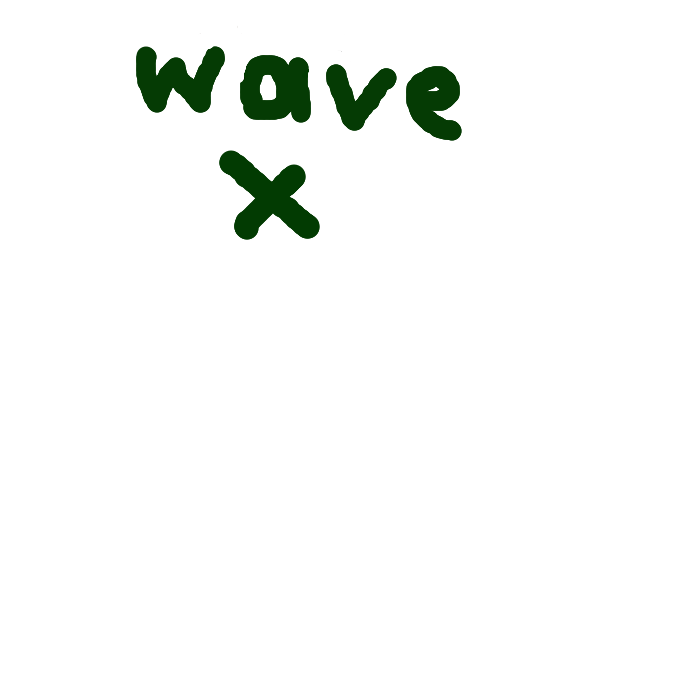
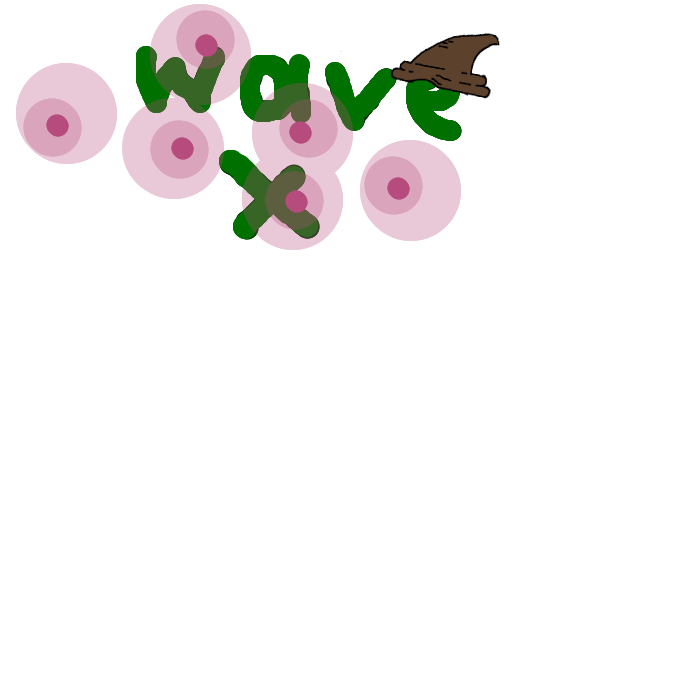
witch v1

Changed region(s): [[0.0, 0.0, 0.72, 0.36]]

diff --git a/lib/monsters/witch.py b/lib/monsters/witch.py
@@ -1,0 +1,45 @@
+from threading import Thread
+from random import randint
+
+from . import DefaultMonster
+from . import set_hitbox_monster
+
+class   Witch(DefaultMonster):
+    name = "witch"
+    lives = 30
+    id_nb = 17
+
+    @classmethod
+    def build_class(cls):
+        cls.img = cls.tools.set_imgs(cls.env.img_folder + 'monsters/', cls.name, cls.dimensions)
+        cls.img_injured = cls.tools.set_imgs(cls.env.img_folder + 'monsters/', cls.name + '_injured', cls.dimensions)
+        cls.img_dead = cls.tools.set_imgs(cls.env.img_folder + 'monsters/', cls.name + '_dead', cls.dimensions)
+        cls.img_possessed = cls.tools.set_imgs(cls.env.img_folder + 'monsters/', cls.name + '_possessed', cls.dimensions)
+        cls.bullet  = cls.env.mod.bullets.DoubleBullet.build_class(cls.env)
+        return cls
+
+    def __init__(self, env, x, y):
+        self._father_init(x, y)
+        self.hitbox = set_hitbox_monster(env, self)
+
+        self.rapidity = randint(6, 10)
+
+        self.walking_dead = False
+
+    def display(self, env):
+        fitting = 0.23 * self.dimensions if self.direction % 2 else 0
+        if not self.lives:
+            if self.env.walking_dead:
+                img = self.img_possessed[self.direction]
+            else:
+                img = self.img_dead[self.direction]
+        elif self.injured:
+            img = self.img_injured[self.direction]
+        else:
+            img = self.img[self.direction]
+        self.tools.display(self.env, img, self.x, self.y, fitting)
+        if self.lives and self.invulnerable:
+            self.tools.display(self.env, self.img_invulnerable[self.direction], self.x, self.y, fitting)
+        elif self.lives and self.inflamed:
+            self.tools.display(self.env, self.img_inflamed[self.direction], self.x, self.y, fitting)
+        self._debug()

diff --git a/lib/waves/configuration.py b/lib/waves/configuration.py
@@ -300,10 +300,10 @@ class   Wave9(DefaultWave):
 class   Wave10(DefaultWave):
     def __init__(self, env):
         self.title = env.mod.tools.load_img(env, 'waves/wave_10', env.height, env.height)
-        self.objective = 16
-        self.times = [0, 0, 0, 1180, 235, 1320, 102, 233, 82, 188]
-        self.nb = [0, 0, 0, 1, 2, 1, 2, 1, 1, 1]
-        self.next = [0, 0, 0, self.random(3), self.random(4), self.random(5), self.random(6) // 2, self.random(7) // 2, 0, self.random(9) // 2]
+        self.objective = 28
+        self.times = [144, 187, 212, 1280, 166, 1520, 144, 401, 199]
+        self.nb = [3, 1, 1, 1, 2, 1, 1, 1, 3]
+        self.next = [0, self.random(1), self.random(2), self.random(3), self.random(4), self.random(5) // 2, self.random(6), self.random(7), 0]
         self.add = AdditionalSpawn((0, 2, 833))
 
     def process(self, env):
@@ -324,9 +324,9 @@ class   Wave11(DefaultWave):
     def __init__(self, env):
         self.title = env.mod.tools.load_img(env, 'waves/wave_11', env.height, env.height)
         self.objective = 18
-        self.times = [144, 187, 212, 1280, 166, 1520, 144, 401, 1, 299]
-        self.nb = [3, 1, 1, 1, 2, 1, 1, 1, 1, 2]
-        self.next = [0, self.random(1), self.random(2), self.random(3), self.random(4), self.random(5) // 2, self.random(6), self.random(7), -1, 0]
+        self.times = [144, 187, 212, 1280, 166, 1520, 144, 401, 222, 299]
+        self.nb = [2, 1, 1, 1, 2, 1, 1, 1, 2, 2]
+        self.next = [0, self.random(1), self.random(2), self.random(3), self.random(4), self.random(5) // 2, self.random(6), self.random(7), 0, 0]
         self.add = AdditionalSpawn((0, 2, 833))
 
     def process(self, env):

diff --git a/lib/players/score.py b/lib/players/score.py
@@ -12,9 +12,9 @@ class   Score:
         self.half = player.half
         self.tools = player.tools
         self.img_total = player.img[0]
-        self.list = ['zombie', 'cyclops', 'jack_lantern', 'daemon', 'minion', 'necromancer', 'harpy', 'ent', 'nyx', 'tentacle', 'piranha', 'kraken', 'dark_knight', 'villager', 'garou', 'alchemist', 'fly', 'devourer', 'devourer', 'graeae']
+        self.list = ['zombie', 'cyclops', 'jack_lantern', 'daemon', 'minion', 'necromancer', 'harpy', 'ent', 'nyx', 'tentacle', 'piranha', 'kraken', 'dark_knight', 'villager', 'garou', 'alchemist', 'fly', 'witch', 'devourer', 'graeae']
         self.kills = [0, 0, 0, 0, 0, 0, 0, 0, 0, 0, 0, 0, 0, 0, 0, 0, 0, 0, 0, 0]
-        self.values = [1, 4, 2.5, 0.135, 2, 7.5, 3, 0.09, 0.125, 0.5, 3, 0.12, 11, 1.5, 2.5, 4, 3, 3, 0.045, 0.135]
+        self.values = [1, 4, 2.5, 0.135, 2, 7.5, 3, 0.09, 0.125, 0.5, 3, 0.12, 11, 1.5, 2.5, 4, 3, 2, 0.045, 0.135]
         self.img = []
         for name in self.list:
             self.load_img(env, name, dimensions)

diff --git a/lib/monsters/__init__.py b/lib/monsters/__init__.py
@@ -24,10 +24,11 @@ from .garou import Garou
 from .villager import Villager
 from .alchemist import Alchemist
 from .fly import Fly
+from .witch import Witch
 from .devourer import Devourer
 from .enyo import Enyo
 from .deino import Deino
 from .pemphredo import Pemphredo
 from .graeae import Graeae
 
-tab = [Zombie, Cyclops, JackLantern, Necromancer, Harpy, Ent, Villager, Alchemist, Fly, Devourer, Devourer]
+tab = [Zombie, Cyclops, JackLantern, Necromancer, Harpy, Ent, Villager, Alchemist, Witch, Devourer]

diff --git a/lib/waves/loop.py b/lib/waves/loop.py
@@ -31,6 +31,7 @@ def _init(env):
     env.mod.weapons.MagicWand.build_class(env)
     env.mod.weapons.ShadowDaggers.build_class(env)
     env.mod.monsters.Villager.build_class()
+    env.mod.monsters.Witch.build_class()
     env.mod.monsters.Alchemist.build_class(env)
     env.mod.monsters.Ent.build_class()
     env.mod.monsters.Piranha.build_class()
